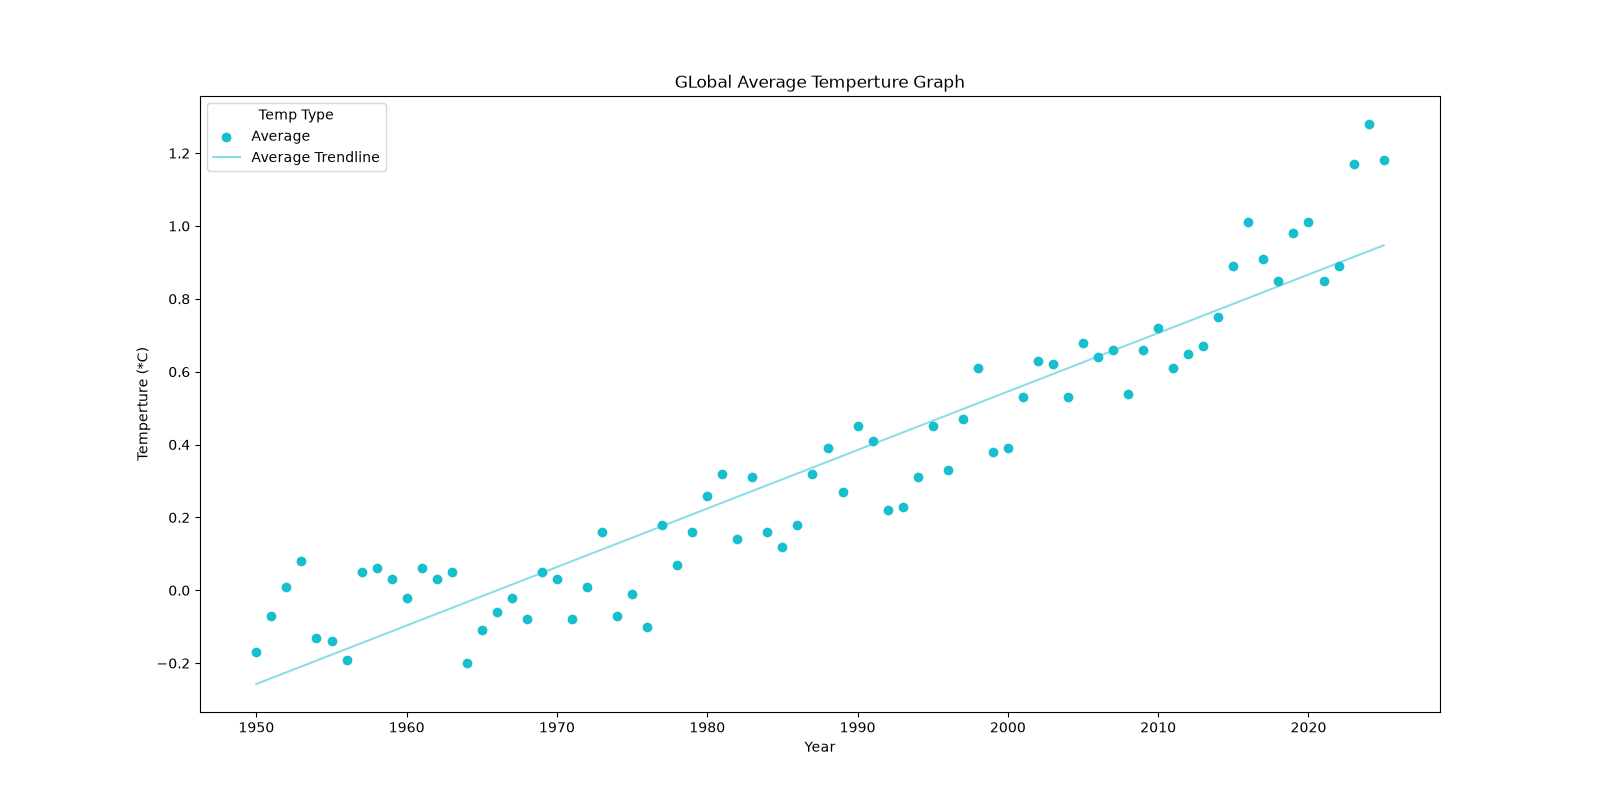
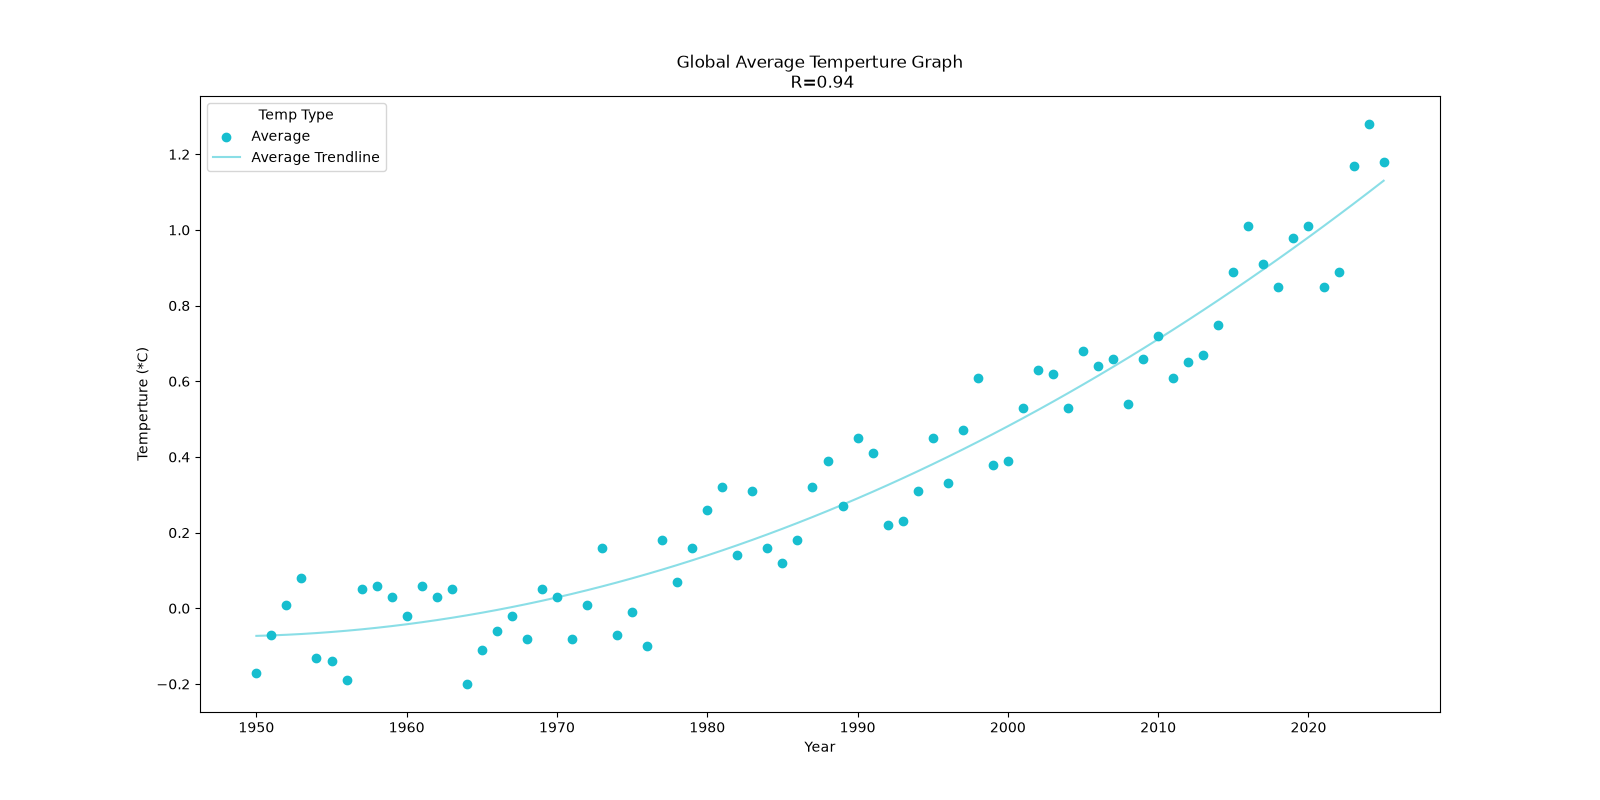
Added correlation co-efficient
For global avg, and min, max, avg for mullingar

Changed fit line for global to be a 3 polynomial vs 1

diff --git a/Pyhton Files/Max_Temp_Scatter.py b/Pyhton Files/Max_Temp_Scatter.py
@@ -22,6 +22,12 @@ trendlineEq = np.poly1d(z_avg)
 # apply trend line
 ax.plot(yearlyWeather["Year"], trendlineEq(yearlyWeather["Year"]), label = "Maximum Trendline", alpha = 0.5, color = "tab:orange")
 
+# Correlation Coeffecient.
+correlation_cof = np.corrcoef(yearlyWeather["Year"],yearlyWeather["Max_Temp"])[0,1]
+print(correlation_cof)
+
+corrcorrelation_cof = round(correlation_cof, 2)
+
 
 ax.legend(title = "Temp Type")
 
@@ -29,6 +35,6 @@ ax.legend(title = "Temp Type")
 ax.set_xlabel('Year')
 ax.set_ylabel('Temperture (*C)')
 
-ax.set_title("Mullingar Yearly Maximum Temperture Graph")
+ax.set_title("Mullingar Yearly Maximum Temperture Graph\n R="+str(corrcorrelation_cof))
 
 plt.show()

diff --git a/Pyhton Files/Min_Temp_Scatter.py b/Pyhton Files/Min_Temp_Scatter.py
@@ -22,6 +22,12 @@ trendlineEq = np.poly1d(z_avg)
 # apply trend line
 ax.plot(yearlyWeather["Year"], trendlineEq(yearlyWeather["Year"]), label = "Minimum Trendline", alpha = 0.5, color = "tab:blue")
 
+# Correlation Coeffecient.
+correlation_cof = np.corrcoef(yearlyWeather["Year"],yearlyWeather["Min_Temp"])[0,1]
+print(correlation_cof)
+
+corrcorrelation_cof = round(correlation_cof, 2)
+
 
 ax.legend(title = "Temp Type")
 
@@ -29,6 +35,6 @@ ax.legend(title = "Temp Type")
 ax.set_xlabel('Year')
 ax.set_ylabel('Temperture (*C)')
 
-ax.set_title("Mullingar Yearly Minimum Temperture Graph")
+ax.set_title("Mullingar Yearly Minimum Temperture Graph\n R="+str(corrcorrelation_cof))
 
 plt.show()

diff --git a/Pyhton Files/Avg_Temp_Scatter.py b/Pyhton Files/Avg_Temp_Scatter.py
@@ -22,12 +22,18 @@ trendlineEq = np.poly1d(z_avg)
 # apply trend line
 ax.plot(yearlyWeather["Year"], trendlineEq(yearlyWeather["Year"]), label = "Average Trendline", alpha = 0.5, color = "tab:green")
 
+# Correlation Coeffecient.
+correlation_cof = np.corrcoef(yearlyWeather["Year"],yearlyWeather["Avg_Mean_Temp"])[0,1]
+print(correlation_cof)
+
+corrcorrelation_cof = round(correlation_cof, 2)
+
 ax.legend(title = "Temp Type")
 
 #Lables
 ax.set_xlabel('Year')
 ax.set_ylabel('Temperture (*C)')
 
-ax.set_title("Mullingar Yearly Average Temperture Graph")
+ax.set_title("Mullingar Yearly Average Temperture Graph\n R="+str(corrcorrelation_cof))
 
 plt.show()
